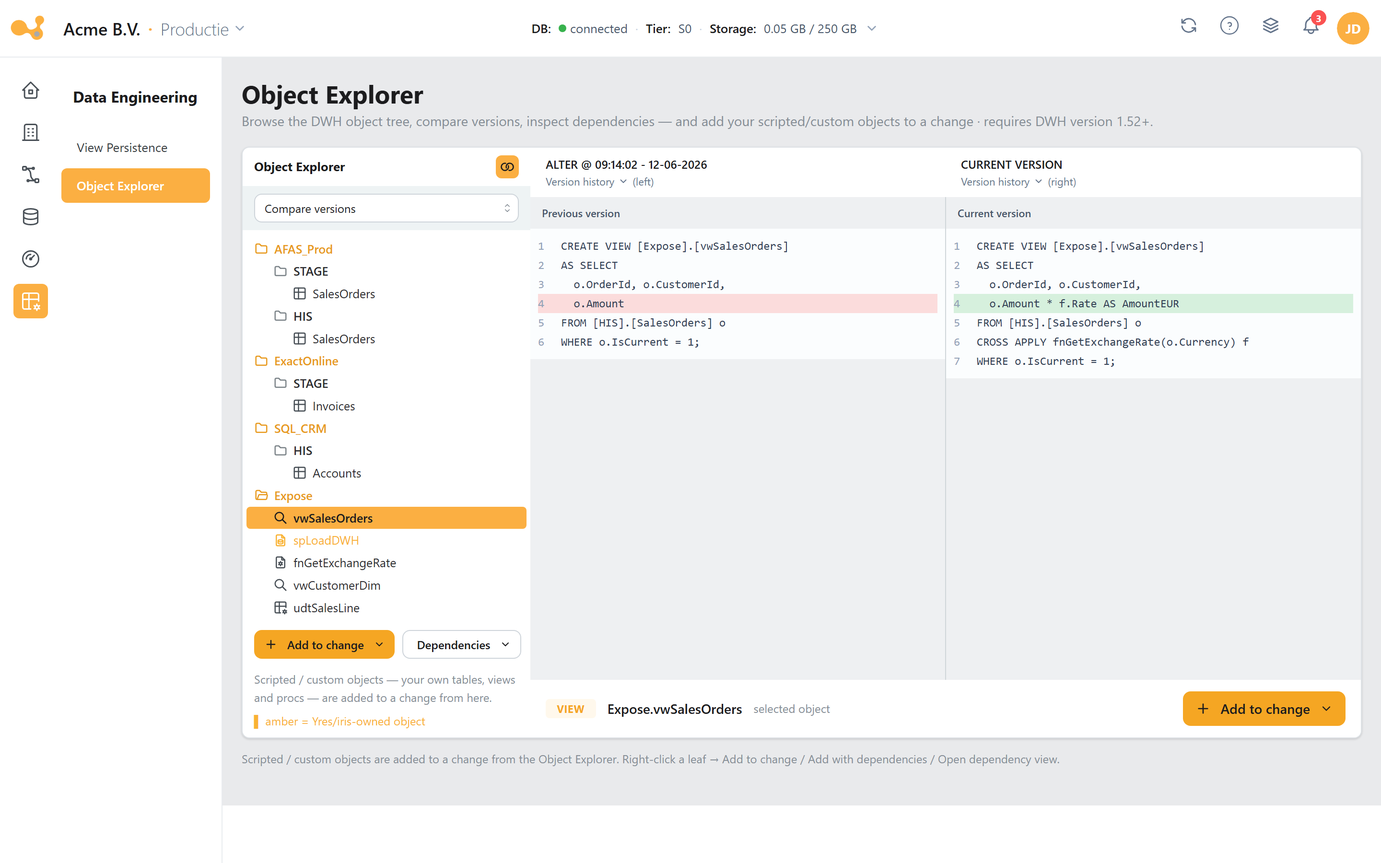
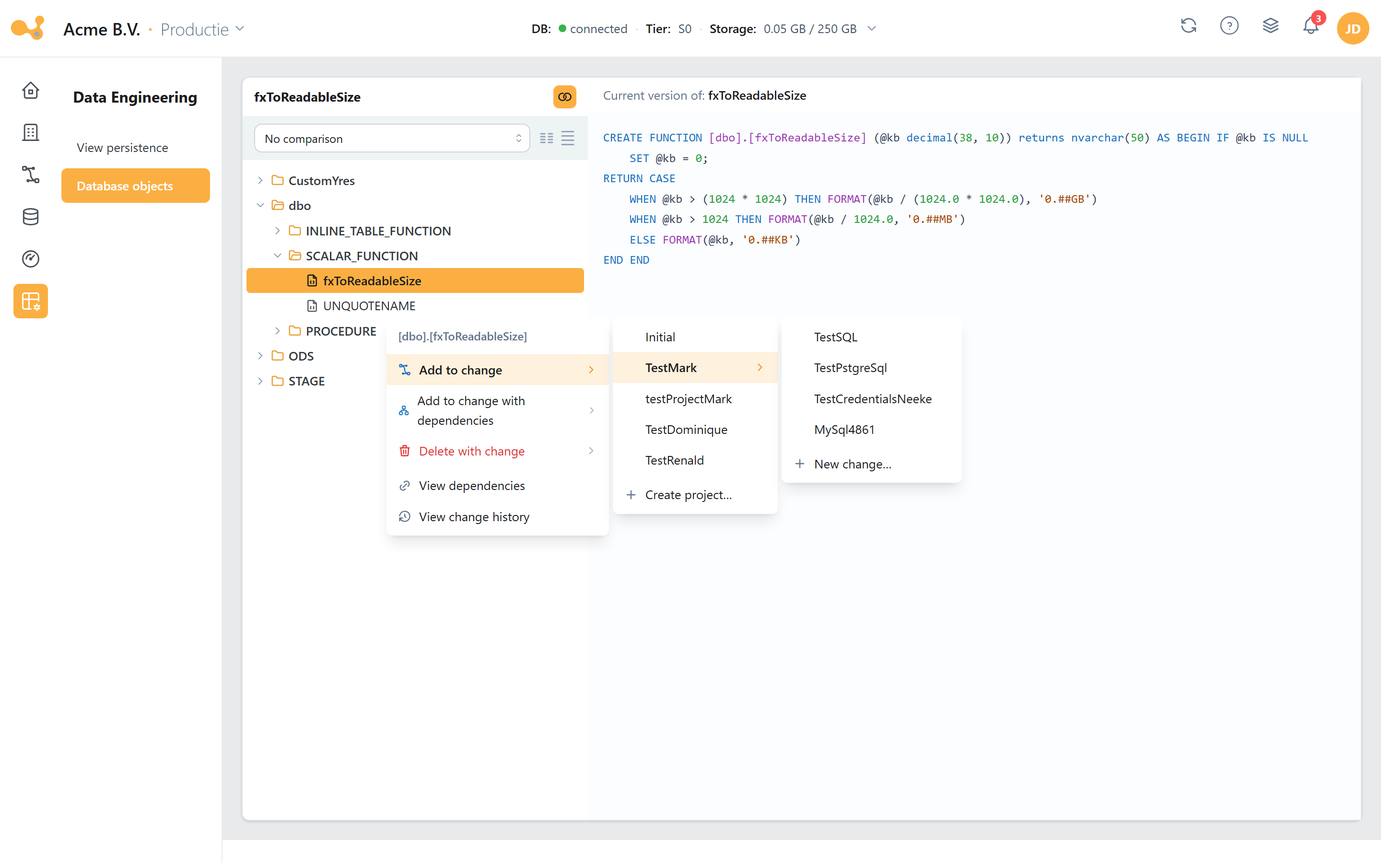
Wiki: Database objects viewer — real screenshot + full docs (rename from Object Explorer)
From the user's live screenshots of the Data Engineering "Database objects" viewer:
- dataengineering-objecthistory.png rebuilt to the real screen: object tree
  (schema → type folder → object), the selected object's SQL source, and the
  cascading right-click menu (Add to change → project → change, Add to change
  with dependencies, Delete with change, View dependencies, View change history).
- Renamed "Object Explorer" → "Database objects" everywhere, and documented the
  viewer's previously-missing features in frontend/data-engineering (tree, SQL
  source, Compare-versions diff, the right-click actions, the dependency graph,
  and the change-history modal). Updated webapp-schermen + the references in
  cicd-dtap, wijzigingsproces, projecten-changes. NL+EN, both build clean.

diff --git a/nl/docs/frontend/data-engineering.md b/nl/docs/frontend/data-engineering.md
@@ -1,15 +1,15 @@
 ---
 sidebar_position: 6
 title: Data Engineering
-description: View-persistentie (Level/Delta) en object-historie (versievergelijking en dependency-trees) beheren vanuit de Yres-webapp.
+description: View-persistentie (Level/Delta) en Database objects (objectboom, SQL-definitie, versievergelijking en de Add-to-change-acties) beheren vanuit de Yres-webapp.
 ---
 
 # Data Engineering
 
-De sectie **Data engineering** (icoonbalk, sleutel `general.dataEngineering`) bevat twee schermen waarmee je database-objecten beheert zonder rechtstreeks in de database te werken:
+De sectie **Data engineering** (icoonbalk, sleutel `general.dataEngineering`) heeft precies twee sub-links waarmee je database-objecten beheert zonder rechtstreeks in de database te werken:
 
 - **View persistence** (`/dataengineering/viewpersistence`) — views materialiseren naar tabellen.
-- **Object history** (`/dataengineering/objecthistory`) — versiehistorie en afhankelijkheden van objecten bekijken.
+- **Database objects** (`/dataengineering/objecthistory`) — de objectviewer: de objectboom, de huidige SQL-definitie, versievergelijking en het rechtsklik-menu om objecten aan een change toe te voegen.
 
 :::tip Alle schermen & routes
 De volledige lijst schermen van de app met hun route en velden staat in [Webapp-schermen](../referentie/webapp-schermen.md).
@@ -60,39 +60,38 @@ In de kolom `Delta` van de tabel (en bij het load type in het formulier) staat h
 De configuratie wordt opgeslagen via `MaintainPersistView`; het daadwerkelijke materialiseren gebeurt door de stored procedure **`[LoadManagement].[spMaterializeViews]`**, die door de **Materialize View**-pipeline wordt aangeroepen. Dezelfde stap zit als **Materialize Views** ook aan het eind van de standaard laad-workflow, zodat persisted views automatisch actueel blijven na een load.
 :::
 
-## Object history
+## Database objects
 
-Het scherm **Object history** (`/dataengineering/objecthistory`) toont alle database-objecten — door een gebruiker én door Yres gemaakt — met hun **definitie**, **versiehistorie** en **afhankelijkheden**. Je kunt versies vergelijken, dependency-trees verkennen en objecten toevoegen aan een change.
+De sub-link **Database objects** (`/dataengineering/objecthistory`) is de **objectviewer**: een boomstructuur met alle database-objecten — door een gebruiker én door Yres gemaakt — waarmee je per object de **huidige SQL-definitie** bekijkt, **versies vergelijkt** en via een **rechtsklik-menu** objecten aan een change toevoegt.
 
-De objectboom op dit scherm is tegelijk de **Object Explorer**: hier beheer je je **scripted/custom objecten** (je eigen tabellen, views, stored procedures en functions). Je bladert er door je DWH-objecten en voegt een eigen object — of een bestaand database-object — rechtstreeks vanuit de explorer toe aan een change via de actie **Add to change**. Er is geen apart "Scripted objects"-scherm meer; scripted objecten leven hier in de Object Explorer.
+Dit scherm is dé plek voor je **scripted/custom objecten** (je eigen tabellen, views, stored procedures en functions). Je bladert er door je DWH-objecten en voegt een eigen object — of een bestaand database-object — via het rechtsklik-menu (**Add to change**) rechtstreeks aan een change toe. Er is geen apart "Scripted objects"-scherm meer; scripted objecten beheer je hier in **Database objects**.
 
-![Object history-scherm: links een schema- en objectboom met een rechtsklik-contextmenu, rechtsboven de versievergelijking met een diff van de objectdefinitie en rechtsonder een dependency-tree.](/img/screens/dataengineering-objecthistory.png)
+![Database objects-scherm: links de objectboom (schema → objecttype-map → object), in het midden het broncodepaneel met de huidige SQL-definitie (syntax highlighting), bovenaan de "No comparison"/"Compare versions"-dropdown en een rechtsklik-contextmenu met cascademenu's voor Add to change.](/img/screens/dataengineering-objecthistory.png)
 
-*Het Object history-scherm: de objectboom links, de versievergelijking met diff rechtsboven en de afhankelijkheidsgraaf rechtsonder.*
+*Het Database objects-scherm: de objectboom links (schema → objecttype → object), het broncodepaneel met de huidige definitie in het midden, de vergelijkingsdropdown bovenaan en het rechtsklik-contextmenu met de Add-to-change-cascade.*
 
-(1) **Comparison-dropdown** — bovenaan de objectboom; kies waarmee je vergelijkt (standaard "No comparison").
-(2) **Schema-/objectboom** — alle schema's en objecten (bijvoorbeeld `CustomYres`, `dbo`, `Expose`, `ODS`, `STAGE`). Klik een object aan om zijn definitie en afhankelijkheden te laden.
-(3) **Rechtsklik-contextmenu** — acties op een object (zie [Objecten aan een change toevoegen](#objecten-aan-een-change-toevoegen)).
-(4) **Versievergelijking + diff** — twee dropdowns kiezen de versies; het hoofdvenster toont de definitie of een regel-voor-regel-verschil. De knop linksonder vergelijkt de huidige met de vorige definitie.
-(5) **Dependency-tree** — de objecten waar dit object **van afhangt** én die **ervan afhangen**; klik een knoop aan om gelinkte objecten te markeren (handig in grote bomen).
+(1) **Objectboom** — drie niveaus: **schema → objecttype-map → object**. Bijvoorbeeld `dbo → SCALAR_FUNCTION → fxToReadableSize`, of `ODS → TABLE → AzureSQL_dbo_attractions`. Klik een object aan om zijn definitie te laden.
+(2) **Broncodepaneel** — toont de **huidige SQL-definitie** van het geselecteerde object, met syntax highlighting.
+(3) **"No comparison" / "Compare versions"-dropdown** (+ layout-toggles) — bovenaan; standaard "No comparison". Kies **Compare versions** voor een diff.
+(4) **Versie-diff** — bij **Compare versions** verschijnt een rood/groen-verschil tussen de huidige versie en een vorige `ALTER` (toegevoegde/verwijderde kolommen, indexen, enzovoort).
+(5) **Rechtsklik-contextmenu** — rechtsklik op een object voor de change- en dependency-acties (zie [Objecten aan een change toevoegen](#objecten-aan-een-change-toevoegen)).
 
 ### Versies vergelijken
 
-1. Selecteer een object in de boom.
-2. Kies in de dropdowns de **huidige** versie en de versie waarmee je wilt **vergelijken**.
-3. Lees het verschil af in het hoofdvenster (toegevoegde en verwijderde regels worden gemarkeerd).
-4. Of klik de knop linksonder om snel **huidige vs. vorige** definitie te vergelijken.
+1. Selecteer een object in de boom; het broncodepaneel toont de huidige SQL-definitie.
+2. Zet de dropdown bovenaan van **No comparison** naar **Compare versions**.
+3. Lees het rood/groen-verschil af tussen de huidige versie en de vorige `ALTER`: toegevoegde regels staan groen, verwijderde regels rood (bijvoorbeeld toegevoegde of verwijderde kolommen of indexen).
+4. Met de layout-toggles wissel je hoe het broncode- en diff-paneel worden weergegeven.
 
 ### Objecten aan een change toevoegen
 
-Selecteer een object in de **Object Explorer** (de boom) en gebruik de actie **Add to change** om het in een change op te nemen. Zo komen je scripted/custom objecten — je eigen tabellen, views, stored procedures en functions — in een change terecht, samen met bestaande database-objecten die je wilt meenemen.
+Het **rechtsklik-menu** op een object in de boom is de manier waarop je scripted/custom objecten — je eigen tabellen, views, stored procedures en functions — én bestaande database-objecten aan een change toevoegt. Rechtsklik een object en kies een van de volgende acties (de eerste drie hebben cascademenu's):
 
-Rechtsklik op een object in de boom voor het contextmenu. Van daaruit kun je het object:
-
-- **toevoegen aan een change met dependencies** — neemt ook de objecten mee waarvan dit object afhangt;
-- **toevoegen aan een change zonder dependencies** — alleen het object zelf;
-- **toevoegen met content** — inclusief de objectinhoud (voor een eigen tabel bepaal je zo of de tabelinhoud meereist);
-- **verwijderen met een change** — boek de verwijdering in een change.
+- **Add to change ▸** — kies een **project** ▸ kies een **change** (of **New change…** / **Create project…**). Het object wordt aan die change toegevoegd.
+- **Add to change with dependencies ▸** — hetzelfde project → change-pad, maar neemt ook de **afhankelijkheden** van het object mee.
+- **Delete with change ▸** — plant de **verwijdering** van het object als onderdeel van een change.
+- **View dependencies** — opent een **dependency-graaf** (React Flow) van waar het object van afhangt én wat ervan afhangt, bijvoorbeeld `[dbo].[UNQUOTENAME]` → `[LoadManagement].[fxExtractor]` → `vwExtractor` / `spPrepareWorkload`.
+- **View change history** — opent een **modal** met de changes die dit object hebben geraakt (kolommen Change · Status overview · CreationDate · plus een link om naar de change te navigeren).
 
 :::note Changes & DTAP
 Het toevoegen aan een change hoort bij het [Projects → Changes](projecten-changes.md)-proces, waarmee wijzigingen gecontroleerd door je DTAP-omgevingen worden gepromoveerd. Dit menu is bedoeld voor omgevingen met meerdere environments.

diff --git a/en/docs/frontend/data-engineering.md b/en/docs/frontend/data-engineering.md
@@ -1,15 +1,15 @@
 ---
 sidebar_position: 6
 title: Data Engineering
-description: Manage view persistence (Level/Delta) and object history (version comparison and dependency trees) from the Yres web app.
+description: Manage view persistence (Level/Delta) and Database objects (object tree, SQL definition, version comparison and the Add-to-change actions) from the Yres web app.
 ---
 
 # Data Engineering
 
-The **Data engineering** section (icon bar, key `general.dataEngineering`) contains two screens that let you manage database objects without working directly in the database:
+The **Data engineering** section (icon bar, key `general.dataEngineering`) has exactly two sub-links that let you manage database objects without working directly in the database:
 
 - **View persistence** (`/dataengineering/viewpersistence`) — materialize views into tables.
-- **Object history** (`/dataengineering/objecthistory`) — view the version history and dependencies of objects.
+- **Database objects** (`/dataengineering/objecthistory`) — the object viewer: the object tree, the current SQL definition, version comparison and the right-click menu for adding objects to a change.
 
 :::tip All screens & routes
 The full list of app screens with their route and fields is in [Web app screens](../referentie/webapp-schermen.md).
@@ -60,39 +60,38 @@ The `Delta` column of the table (and the load type in the form) shows how the vi
 The configuration is stored via `MaintainPersistView`; the actual materialization is done by the stored procedure **`[LoadManagement].[spMaterializeViews]`**, which is called by the **Materialize View** pipeline. The same step also sits as **Materialize Views** at the end of the standard load workflow, so that persisted views automatically stay current after a load.
 :::
 
-## Object history
+## Database objects
 
-The **Object history** screen (`/dataengineering/objecthistory`) shows all database objects — created by a user and by Yres — with their **definition**, **version history** and **dependencies**. You can compare versions, explore dependency trees and add objects to a change.
+The **Database objects** sub-link (`/dataengineering/objecthistory`) is the **object viewer**: a tree of all database objects — created by a user and by Yres — where you inspect each object's **current SQL definition**, **compare versions** and use a **right-click menu** to add objects to a change.
 
-The object tree on this screen is also the **Object Explorer**: this is where you manage your **scripted/custom objects** (your own tables, views, stored procedures and functions). You browse your DWH objects here and add a custom object — or an existing database object — to a change directly from the explorer via the **Add to change** action. There is no separate "Scripted objects" screen anymore; scripted objects live here in the Object Explorer.
+This screen is the home for your **scripted/custom objects** (your own tables, views, stored procedures and functions). You browse your DWH objects here and add a custom object — or an existing database object — to a change directly via the right-click menu (**Add to change**). There is no separate "Scripted objects" screen anymore; scripted objects are managed here in **Database objects**.
 
-![Object history screen: on the left a schema and object tree with a right-click context menu, top right the version comparison with a diff of the object definition, and bottom right a dependency tree.](/img/screens/dataengineering-objecthistory.png)
+![Database objects screen: on the left the object tree (schema → object-type folder → object), in the middle the source pane with the current SQL definition (syntax-highlighted), at the top the "No comparison"/"Compare versions" dropdown, and a right-click context menu with cascading Add-to-change submenus.](/img/screens/dataengineering-objecthistory.png)
 
-*The Object history screen: the object tree on the left, the version comparison with diff in the top right, and the dependency graph in the bottom right.*
+*The Database objects screen: the object tree on the left (schema → object type → object), the source pane with the current definition in the middle, the comparison dropdown at the top, and the right-click context menu with the Add-to-change cascade.*
 
-(1) **Comparison dropdown** — at the top of the object tree; choose what you compare against (default "No comparison").
-(2) **Schema/object tree** — all schemas and objects (for example `CustomYres`, `dbo`, `Expose`, `ODS`, `STAGE`). Click an object to load its definition and dependencies.
-(3) **Right-click context menu** — actions on an object (see [Adding objects to a change](#adding-objects-to-a-change)).
-(4) **Version comparison + diff** — two dropdowns select the versions; the main pane shows the definition or a line-by-line difference. The button in the bottom left compares the current with the previous definition.
-(5) **Dependency tree** — the objects this object **depends on** and those that **depend on it**; click a node to highlight linked objects (handy in large trees).
+(1) **Object tree** — three levels: **schema → object-type folder → object**. For example `dbo → SCALAR_FUNCTION → fxToReadableSize`, or `ODS → TABLE → AzureSQL_dbo_attractions`. Click an object to load its definition.
+(2) **Source pane** — shows the **current SQL definition** of the selected object, syntax-highlighted.
+(3) **"No comparison" / "Compare versions" dropdown** (+ layout toggles) — at the top; defaults to "No comparison". Choose **Compare versions** for a diff.
+(4) **Version diff** — with **Compare versions** selected, a red/green difference appears between the current version and a previous `ALTER` (added/removed columns, indexes, and so on).
+(5) **Right-click context menu** — right-click an object for the change and dependency actions (see [Adding objects to a change](#adding-objects-to-a-change)).
 
 ### Comparing versions
 
-1. Select an object in the tree.
-2. In the dropdowns, choose the **current** version and the version you want to **compare** with.
-3. Read the difference in the main pane (added and removed lines are highlighted).
-4. Or click the button in the bottom left to quickly compare the **current vs. previous** definition.
+1. Select an object in the tree; the source pane shows the current SQL definition.
+2. Switch the dropdown at the top from **No comparison** to **Compare versions**.
+3. Read the red/green difference between the current version and the previous `ALTER`: added lines are green, removed lines are red (for example added or removed columns or indexes).
+4. Use the layout toggles to change how the source and diff panes are displayed.
 
 ### Adding objects to a change
 
-Select an object in the **Object Explorer** (the tree) and use the **Add to change** action to include it in a change. This is how your scripted/custom objects — your own tables, views, stored procedures and functions — end up in a change, together with existing database objects you want to take along.
+The **right-click menu** on an object in the tree is how you add scripted/custom objects — your own tables, views, stored procedures and functions — as well as existing database objects to a change. Right-click an object and choose one of the following actions (the first three have cascading submenus):
 
-Right-click an object in the tree to open the context menu. From there you can:
-
-- **add it to a change with dependencies** — also includes the objects this object depends on;
-- **add it to a change without dependencies** — only the object itself;
-- **add it with content** — including the object content (for a custom table this determines whether the table content travels);
-- **delete it with a change** — record the deletion in a change.
+- **Add to change ▸** — pick a **project** ▸ pick a **change** (or **New change…** / **Create project…**). The object is added to that change.
+- **Add to change with dependencies ▸** — the same project → change path, but also includes the object's **dependencies**.
+- **Delete with change ▸** — schedules the object's **deletion** as part of a change.
+- **View dependencies** — opens a **dependency graph** (React Flow) of what the object depends on and what depends on it, for example `[dbo].[UNQUOTENAME]` → `[LoadManagement].[fxExtractor]` → `vwExtractor` / `spPrepareWorkload`.
+- **View change history** — opens a **modal** listing the changes that touched this object (columns Change · Status overview · CreationDate · plus a link to navigate to the change).
 
 :::note Changes & DTAP
 Adding to a change is part of the [Projects → Changes](projecten-changes.md) process, which promotes changes through your DTAP environments in a controlled way. This menu is meant for setups with multiple environments.

diff --git a/nl/docs/referentie/webapp-schermen.md b/nl/docs/referentie/webapp-schermen.md
@@ -81,7 +81,7 @@ Bij **Triggers** wordt de timezone van de ingelogde gebruiker gebruikt (niet een
 | Scherm | Route | Belangrijkste velden |
 |---|---|---|
 | View persistence | `/dataengineering/viewpersistence` | `DestinationSchemaName` · `DestinationTableName` · `Level` · `Delta` · "Run materialize view (all)" |
-| Object Explorer / Object history | `/dataengineering/objecthistory` | objectboom van het DWH · objecthistorie · **"Add to change"** om een scripted/eigen object (eigen tabel, view, procedure, functie) aan een change toe te voegen |
+| Database objects | `/dataengineering/objecthistory` | objectboom (schema → type → object) · SQL-broncode / **"Compare versions"**-diff · rechtsklikmenu: **Add to change** (project → change), **Add to change with dependencies**, **Delete with change**, **View dependencies** (graph), **View change history** |
 
 ## Projects & Changes
 
@@ -95,7 +95,7 @@ Deze hele sectie is **verborgen bij een single-environment-organisatie**. Projec
 | Changes | `/changes` | filters (Project · "Only show open projects" · Where environment · Has status) · changes-tabel (`Name` · `Description` · `DueDate` · `ReleasedDate` · `Status overview` · `NextStep` · `Dependencies` · `Actions`) · "Create change" · **acties via het ☰-menu per change**: Update/Delete, per-omgeving-submenu (dev ▸ release change; doelomgeving ▸ Reimport/Reinstall change), View dependencies (graaf) en Logs |
 
 :::note Release & Install gebeuren op de Changes-zelf
-Er zijn geen aparte "Release change"- of "Install change"-schermen meer. Release, Import en Install zijn **acties op de geselecteerde change** binnen het **Changes**-scherm (`/changes`), contextueel op de status: een open change toont **Release** (`[Change].[spRelease]`), een vrijgegeven change toont **Import** (`[Change].[spImport]`, alleen DWH) en **Install** (`[Change].[spInstall]` + de `publish-datafactory`-pipeline, DWH + ADF). Scripted/eigen objecten beheer je via de **Object Explorer** in **Data engineering** (`/dataengineering/objecthistory`), waar je een object aan een change toevoegt.
+Er zijn geen aparte "Release change"- of "Install change"-schermen meer. Release, Import en Install zijn **acties op de geselecteerde change** binnen het **Changes**-scherm (`/changes`), contextueel op de status: een open change toont **Release** (`[Change].[spRelease]`), een vrijgegeven change toont **Import** (`[Change].[spImport]`, alleen DWH) en **Install** (`[Change].[spInstall]` + de `publish-datafactory`-pipeline, DWH + ADF). Scripted/eigen objecten beheer je via **Database objects** in **Data engineering** (`/dataengineering/objecthistory`), waar je een object aan een change toevoegt.
 :::
 
 ## Admin (organisatie)

diff --git a/en/docs/referentie/webapp-schermen.md b/en/docs/referentie/webapp-schermen.md
@@ -81,7 +81,7 @@ For **Triggers**, the timezone of the logged-in user is used (not a fixed UTC+1)
 | Screen | Route | Key fields |
 |---|---|---|
 | View persistence | `/dataengineering/viewpersistence` | `DestinationSchemaName` · `DestinationTableName` · `Level` · `Delta` · "Run materialize view (all)" |
-| Object Explorer / Object history | `/dataengineering/objecthistory` | DWH object tree · object history · **"Add to change"** to add a scripted/custom object (your own table, view, procedure, function) to a change |
+| Database objects | `/dataengineering/objecthistory` | object tree (schema → type → object) · SQL source / **"Compare versions"** diff · right-click menu: **Add to change** (project → change), **Add to change with dependencies**, **Delete with change**, **View dependencies** (graph), **View change history** |
 
 ## Projects & Changes
 
@@ -95,7 +95,7 @@ This entire section is **hidden for a single-environment organization**. Project
 | Changes | `/changes` | filters (Project · "Only show open projects" · Where environment · Has status) · changes table (`Name` · `Description` · `DueDate` · `ReleasedDate` · `Status overview` · `NextStep` · `Dependencies` · `Actions`) · "Create change" · **actions via the per-change ☰ menu**: Update/Delete, per-environment submenu (dev ▸ release change; target env ▸ Reimport/Reinstall change), View dependencies (graph) and Logs |
 
 :::note Release & Install happen on the Changes screen
-There are no separate "Release change" or "Install change" screens anymore. Release, Import and Install are **actions on the selected change** within the **Changes** screen (`/changes`), contextual to its status: an open change shows **Release** (`[Change].[spRelease]`), a released change shows **Import** (`[Change].[spImport]`, DWH only) and **Install** (`[Change].[spInstall]` + the `publish-datafactory` pipeline, DWH + ADF). You manage scripted/custom objects via the **Object Explorer** in **Data engineering** (`/dataengineering/objecthistory`), where you add an object to a change.
+There are no separate "Release change" or "Install change" screens anymore. Release, Import and Install are **actions on the selected change** within the **Changes** screen (`/changes`), contextual to its status: an open change shows **Release** (`[Change].[spRelease]`), a released change shows **Import** (`[Change].[spImport]`, DWH only) and **Install** (`[Change].[spInstall]` + the `publish-datafactory` pipeline, DWH + ADF). You manage scripted/custom objects via **Database objects** in **Data engineering** (`/dataengineering/objecthistory`), where you add an object to a change.
 :::
 
 ## Admin (organization)

diff --git a/nl/docs/frontend/projecten-changes.md b/nl/docs/frontend/projecten-changes.md
@@ -94,9 +94,9 @@ De **DueDate** van een change moet **op of vóór** de DueDate van het bovenligg
 
 ## Scripted Objects
 
-Custom SQL-objecten die niet door Yres zijn gegenereerd — je eigen tabellen, views, stored procedures en functions — beheer je vanuit de **Object Explorer**: de database-objectboom onder **Data Engineering**. Daar blader je door je DWH-objecten en **voeg je een eigen object — of een bestaand database-object — rechtstreeks vanuit de explorer toe aan een change**. Er is geen apart "Scripted objects"-scherm meer; scripted/custom objecten leven in de Object Explorer en reizen via de change mee bij het releasen en installeren naar test en prod.
+Custom SQL-objecten die niet door Yres zijn gegenereerd — je eigen tabellen, views, stored procedures en functions — beheer je vanuit **Database objects**: de database-objectboom onder **Data Engineering**. Daar blader je door je DWH-objecten en **voeg je een eigen object — of een bestaand database-object — rechtstreeks vanuit de explorer toe aan een change**. Er is geen apart "Scripted objects"-scherm meer; scripted/custom objecten leven in het Database objects-scherm en reizen via de change mee bij het releasen en installeren naar test en prod.
 
-- Open onder **Data Engineering** de **Object Explorer** en rechtsklik een object om het — met of zonder dependencies, en eventueel met content — aan een change toe te voegen. Zie [Objecten aan een change toevoegen](./data-engineering.md#objecten-aan-een-change-toevoegen).
+- Open onder **Data Engineering** het **Database objects**-scherm en rechtsklik een object om het — met of zonder dependencies, en eventueel met content — aan een change toe te voegen. Zie [Objecten aan een change toevoegen](./data-engineering.md#objecten-aan-een-change-toevoegen).
 - Bij een **custom tabel** kies je of de inhoud van de tabel meegaat (achterliggend: `[Change].[spCopyTableContent]`).
 
 ## Het acties-menu (☰) {#het-acties-menu}

diff --git a/en/docs/frontend/projecten-changes.md b/en/docs/frontend/projecten-changes.md
@@ -94,9 +94,9 @@ The **DueDate** of a change must be **on or before** the DueDate of the parent p
 
 ## Scripted Objects
 
-Custom SQL objects that were not generated by Yres — your own tables, views, stored procedures and functions — are managed from the **Object Explorer**: the database-object tree under **Data Engineering**. There you browse your DWH objects and **add a custom object — or include an existing database object — into a change directly from the explorer**. There is no separate "Scripted objects" screen anymore; scripted/custom objects live in the Object Explorer and travel via the change when releasing and installing to test and prod.
+Custom SQL objects that were not generated by Yres — your own tables, views, stored procedures and functions — are managed from **Database objects**: the database-object tree under **Data Engineering**. There you browse your DWH objects and **add a custom object — or include an existing database object — into a change directly from the explorer**. There is no separate "Scripted objects" screen anymore; scripted/custom objects live in Database objects and travel via the change when releasing and installing to test and prod.
 
-- Under **Data Engineering**, open the **Object Explorer** and right-click an object to add it — with or without dependencies, and optionally with content — to a change. See [Adding objects to a change](./data-engineering.md#adding-objects-to-a-change).
+- Under **Data Engineering**, open **Database objects** and right-click an object to add it — with or without dependencies, and optionally with content — to a change. See [Adding objects to a change](./data-engineering.md#adding-objects-to-a-change).
 - For a **custom table** you choose whether the table's content travels along (behind the scenes: `[Change].[spCopyTableContent]`).
 
 ## The actions menu (☰) {#the-actions-menu}

diff --git a/nl/docs/concepten/wijzigingsproces.md b/nl/docs/concepten/wijzigingsproces.md
@@ -42,8 +42,8 @@ Al je werk bundel je in twee eenheden, zodat het als geheel reist en traceerbaar
 
 - Een **Project** is een container met een naam, omschrijving en einddatum — bijvoorbeeld *"AFAS-uitbreiding Q3"*.
 - Een **Change** is de eenheid die je daadwerkelijk releaset en promoot. Elke bewerking die je in dev
-  doet — een bron koppelen, tabellen toevoegen, een view persisteren, een scripted object toevoegen via de
-  Object Explorer — wordt **automatisch onder een Change geboekt**. Een Change hoort altijd bij een
+  doet — een bron koppelen, tabellen toevoegen, een view persisteren, een scripted object toevoegen via
+  Database objects — wordt **automatisch onder een Change geboekt**. Een Change hoort altijd bij een
   Project.
 
 Je hoeft dus niet handmatig bij te houden wat er veranderd is: Yres verzamelt het in de Change, en die
@@ -71,7 +71,7 @@ install-schermen.
 1. **Plan je werk — maak een Project.** Geef het een naam, omschrijving en einddatum. Onder dit project
    verzamel je je changes.
 2. **Bouw in dev.** Koppel bronnen, voeg tabellen toe, maak persisted views, en voeg scripted objects toe
-   via de **Object Explorer** (de objectboom onder Data Engineering). Alles wat je doet wordt onder je
+   via **Database objects** (de objectboom onder Data Engineering). Alles wat je doet wordt onder je
    **Change** vastgelegd. Je laadt en test hier vrij — dit raakt test en prod niet.
 3. **Bekijk en controleer de Change.** Je ziet de inhoud als **diagram** (bron → schema → tabel) of als
    **tabel** (per object het load type, de delta-kolom, en wat er gebeurt als het object al bestaat). Zo

diff --git a/en/docs/architectuur/cicd-dtap.md b/en/docs/architectuur/cicd-dtap.md
@@ -130,7 +130,7 @@ The path is always **release → reimport → reinstall**, driven from the ☰ m
 
 ### release → reimport → reinstall — step by step
 
-1. **Edit in dev and bundle under a Change.** Every data-plane edit (new tables, scripted objects) is recorded in `Change.ChangeContent` under a **Change**, which belongs to a **Project**. Scripted/custom objects are added to the change from the **Object Explorer** (the object tree under Data Engineering).
+1. **Edit in dev and bundle under a Change.** Every data-plane edit (new tables, scripted objects) is recorded in `Change.ChangeContent` under a **Change**, which belongs to a **Project**. Scripted/custom objects are added to the change from **Database objects** (the object tree under Data Engineering).
 2. **Release the change** — in the **dev ▸** submenu of the ☰ menu, **release change** runs `[Change].[spRelease]`, which validates the dependencies and locks the change (no further edits). Yres blocks releasing if the change contains content that another, not-yet-released change depends on; the error message names that dependent change(s).
 3. **Reimport to the next environment** — **Reimport change** in the target environment's submenu runs `[Change].[spImport]`, which imports the released change (as JSON) into the target environment. This is a **DWH-only** step.
 4. **Reinstall** — **Reinstall change** in the target environment's submenu runs `[Change].[spInstall]`, which applies the change (`@Execute`: `1` = execute, `0` = print SQL, `2` = impact analysis). The ADF pipeline **`InstallChange`** is the automation entry point.

diff --git a/en/docs/concepten/wijzigingsproces.md b/en/docs/concepten/wijzigingsproces.md
@@ -42,7 +42,7 @@ You bundle all your work into two units, so it travels as a whole and stays trac
 
 - A **Project** is a container with a name, description and due date — for example *"AFAS expansion Q3"*.
 - A **Change** is the unit you actually release and promote. Every edit you make in dev — connecting a
-  source, adding tables, persisting a view, adding a scripted object via the Object Explorer — is
+  source, adding tables, persisting a view, adding a scripted object via Database objects — is
   **automatically booked under a Change**. A Change always belongs to a Project.
 
 So you don't have to track manually what changed: Yres collects it in the Change, and that Change is your
@@ -69,7 +69,7 @@ the far right. You release, import and install everything from that **☰ menu**
 1. **Plan your work — create a Project.** Give it a name, description and due date. You collect your
    changes under this project.
 2. **Build in dev.** Connect sources, add tables, create persisted views, and add scripted objects via the
-   **Object Explorer** (the object tree under Data Engineering). Everything you do is recorded under your
+   **Database objects** (the object tree under Data Engineering). Everything you do is recorded under your
    **Change**. You load and test freely here — this does not touch test or prod.
 3. **Review and check the Change.** You see its content as a **diagram** (source → schema → table) or as
    a **table** (per object the load type, the delta column, and what happens if the object already
